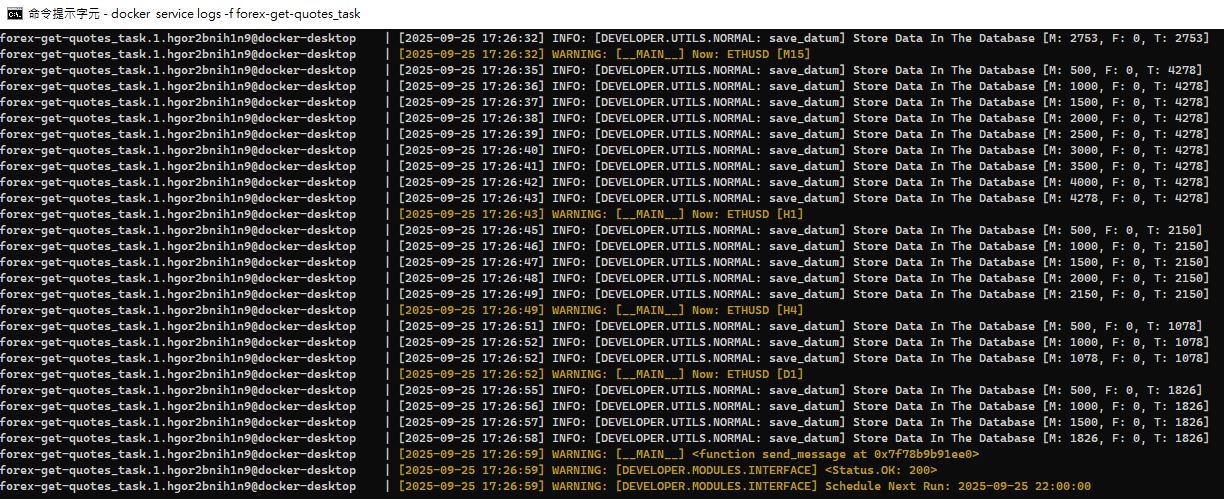
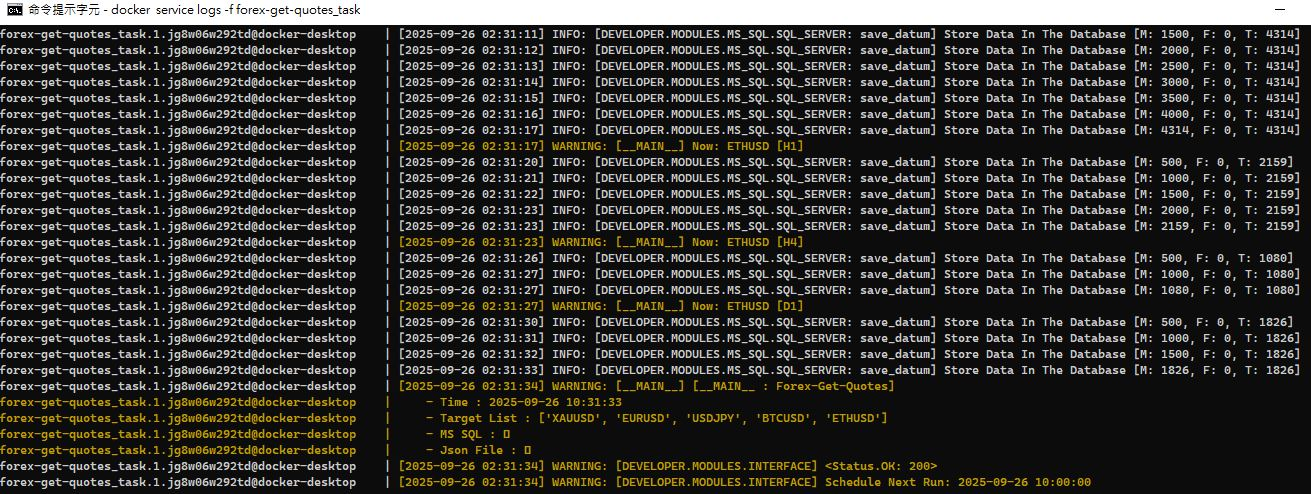
update somethings

diff --git a/cover_history.py b/cover_history.py
@@ -19,8 +19,6 @@ class Entry(Interface):
             raise Exception('Logger 未設定，請先於 __main__ 中定義')
 
         self.logger = logger
-        self.fmp = os.environ.get('FMP_TOKEN')
-        self.base = UtilsLogic(self, logger)
         super().__init__(do_time, logger)
 
 
@@ -34,22 +32,23 @@ class Entry(Interface):
         base_path = os.environ.get('SAVE_PATH')
         os.makedirs(base_path, exist_ok=True)
 
-        # ['xauusd', 'eurusd', 'usdjpy', 'btcusd', 'ethusd']
         target_list = os.environ.get('TARGET_LIST')
-        target_list = ['xauusd'] if target_list is None else target_list.split(',')
+        target_list = ['xauusd', 'eurusd', 'usdjpy', 'btcusd', 'ethusd'] \
+            if target_list is None else target_list.split(',')
 
-        # ['M1', 'M5', 'M15', 'H1', 'H4', 'D1']
         interval_list = os.environ.get('INTERVAL_LIST')
-        interval_list = ['D1'] if interval_list is None else interval_list.split(',')
+        interval_list = ['M1', 'M5', 'M15', 'H1', 'H4', 'D1'] \
+            if interval_list is None else interval_list.split(',')
 
         try:
+            # TODO 未實作
             for symbol in target_list:
                 os.makedirs(f'{base_path}/{symbol.upper()}', exist_ok=True)
                 for interval in interval_list:
                     self.logger.warning(f'[{MODULE_NAME}] Now: {symbol.upper()} [{interval}]')
                     self.base.save_data(base_path, symbol, interval)
 
-            message = (f'[{MODULE_NAME} : save data in json and ms sql]\n'
+            message = (f'[{MODULE_NAME} : Forex-Get-Quotes # History]\n'
                        f'    - Time : {str(get_now(hours=8, tzinfo=TZ_UTC_8))[:19]}\n'
                        f'    - Target List : {[i.upper() for i in target_list]}')
 

diff --git a/docker/app/lib/utils.py b/docker/app/lib/utils.py
@@ -55,7 +55,7 @@ class UtilsLogic:
                 for i in loader:
                     try:
                         timestamp = datetime.strptime(i['date'], LONG_FORMAT).timestamp()
-                        date = trans_timestamp(timestamp, 46800)
+                        date = trans_timestamp(timestamp, 43200) # 43200 # 46800
                         key = f"{str(date)[:19]}_{symbol}_{interval}"
                         datum[key] = {
                             TForexQuotesField.CREATEDATETIME.value: date,

diff --git a/lib/utils.py b/lib/utils.py
@@ -55,7 +55,7 @@ class UtilsLogic:
                 for i in loader:
                     try:
                         timestamp = datetime.strptime(i['date'], LONG_FORMAT).timestamp()
-                        date = trans_timestamp(timestamp, 46800)
+                        date = trans_timestamp(timestamp, 43200) # 43200 # 46800
                         key = f"{str(date)[:19]}_{symbol}_{interval}"
                         datum[key] = {
                             TForexQuotesField.CREATEDATETIME.value: date,

diff --git a/README.md b/README.md
@@ -18,6 +18,7 @@
 | 更新 README 說明 | Docker & Database 連線問題 | 2025-01-24 |
 | 更新撰寫方式 | - | 2025-09-25 |
 | 更新專案路徑編排 | - | 2025-09-25 |
+| 回補歷史邏輯 | - | - |
 
 <br>
 
